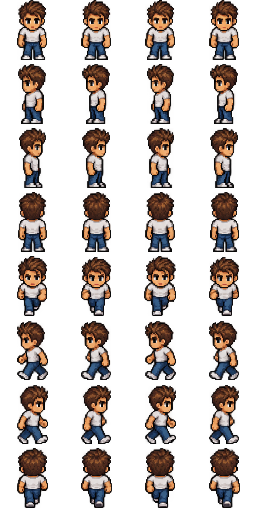
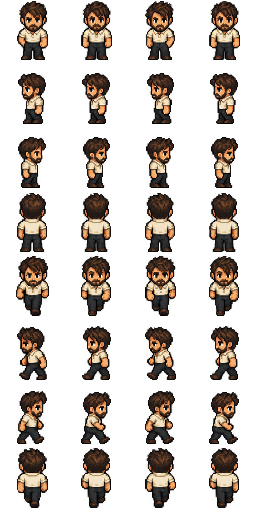
Sprite Workshop saves: Drew mirror-left fix, Panthers Player walk/hurt/portrait

diff --git a/v8/src/art.js b/v8/src/art.js
@@ -2,7 +2,7 @@
 // V8_ART.url(id) returns a cache-busted relative URL for an art id.
 ((root)=>{
  'use strict';
[2 lines of base64/hex data omitted]
  const entry=id=>{const a=data.assets[id];if(!a)throw new Error("Unknown art id: "+id);return a;};
  const url=id=>data.root+entry(id).file+'?v='+entry(id).hash.slice(0,10);
  const api=Object.freeze({url,entry,has:id=>Object.hasOwn(data.assets,id),ids:()=>Object.keys(data.assets),root:data.root});

diff --git a/v8/src/sprites-data.js b/v8/src/sprites-data.js
@@ -1,7 +1,7 @@
 // GENERATED by tools/sprites.cjs from v8/data/sprites.json - edit the JSON (or use the studio), then `npm run sprites:build`.
 ((root)=>{
  'use strict';
- const data={"version":1,"cell":64,"foot":{"x":32,"y":60},"walkRows":{"down":0,"left":1,"right":2,"up":3},"characters":{"jason":{"name":"Jason","walk":"character.jason.walk","portrait":"portrait.jason","speed":120,"runSpeed":205,"walkFPS":8,"runFPS":12},"connor":{"name":"Connor","walk":"character.connor.walk","portrait":"portrait.connor","speed":120,"runSpeed":205,"walkFPS":8,"runFPS":12},"coco":{"name":"Coco","walk":"character.coco.walk","portrait":"portrait.coco","speed":120,"runSpeed":205,"walkFPS":8,"runFPS":12,"emotions":{"art":"character.coco.emotions","frames":3,"fps":6,"rows":{"talk":0,"surprised":1}}},"peachy":{"name":"Peachy","walk":"character.peachy.walk","portrait":"portrait.peachy","speed":120,"runSpeed":205,"walkFPS":8,"runFPS":12},"stephanie":{"name":"Stephanie","walk":"character.stephanie.walk","portrait":"portrait.stephanie","speed":120,"runSpeed":205,"walkFPS":8,"runFPS":12},"mark":{"name":"Mark","walk":"character.mark.walk","portrait":"portrait.mark","speed":120,"runSpeed":205,"walkFPS":8,"runFPS":12},"adam":{"name":"Adam","walk":"character.adam.walk","portrait":"portrait.adam","speed":120,"runSpeed":205,"walkFPS":8,"runFPS":12},"kate":{"name":"Kate","walk":"character.kate.walk","portrait":"portrait.kate","speed":120,"runSpeed":205,"walkFPS":8,"runFPS":12},"brie":{"name":"Brie","walk":"character.brie.walk","portrait":"portrait.brie","speed":120,"runSpeed":205,"walkFPS":8,"runFPS":12},"vito":{"name":"Vito","walk":"character.vito.walk","portrait":"portrait.vito","speed":120,"runSpeed":205,"walkFPS":8,"runFPS":12},"jaime":{"name":"Jaime","walk":"character.jaime.walk","portrait":"portrait.jaime","speed":155,"runSpeed":245,"walkFPS":8,"runFPS":12,"walkRowOffset":4},"chris":{"name":"Chris","walk":"character.chris.walk","portrait":"portrait.chris","speed":120,"runSpeed":205,"walkFPS":8,"runFPS":12,"walkRowOffset":4},"jeff":{"name":"Jeff","walk":"character.jeff.walk","portrait":"portrait.jeff","speed":120,"runSpeed":205,"walkFPS":8,"runFPS":12,"walkRowOffset":4},"ari":{"name":"Ari","walk":"character.ari.walk","portrait":"portrait.ari","speed":120,"runSpeed":205,"walkFPS":8,"runFPS":12,"walkRowOffset":4},"gary":{"name":"Gary","walk":"character.gary.walk","portrait":"portrait.gary","speed":135,"runSpeed":230,"walkFPS":8,"runFPS":12,"walkRowOffset":4,"mirrorLeft":true},"bryce-young":{"name":"Bryce Young","walk":"character.bryce-young.walk","portrait":"portrait.bryce-young","speed":120,"runSpeed":205,"walkFPS":8,"runFPS":12,"walkRowOffset":4,"joined":true},"drew":{"name":"Drew","walk":"character.drew.walk","portrait":"portrait.drew","speed":120,"runSpeed":205,"walkFPS":8,"runFPS":12,"walkRowOffset":4,"joined":true},"kelce":{"name":"Kelce","walk":"character.kelce.walk","portrait":"portrait.kelce","speed":120,"runSpeed":205,"walkFPS":8,"runFPS":12,"walkRowOffset":4,"joined":true},"taylor":{"name":"Taylor","walk":"character.taylor.walk","portrait":"portrait.taylor","speed":120,"runSpeed":205,"walkFPS":8,"runFPS":12,"walkRowOffset":4,"joined":true},"alex":{"name":"Alex","walk":"character.alex.walk","portrait":"portrait.alex","speed":120,"runSpeed":205,"walkFPS":8,"runFPS":12,"walkRowOffset":4,"joined":true}},"poses":{"connor":{"talk":{"art":"character.connor.talk","frames":1,"fps":6},"surprised":{"art":"character.connor.surprised","frames":1,"fps":6}},"jason":{"talk":{"art":"character.jason.talk","frames":1,"fps":6},"surprised":{"art":"character.jason.surprised","frames":1,"fps":6}},"peachy":{"talk":{"art":"character.peachy.talk","frames":1,"fps":6},"surprised":{"art":"character.peachy.surprised","frames":1,"fps":6}},"mark":{"talk":{"art":"character.mark.talk","frames":1,"fps":6},"surprised":{"art":"character.mark.surprised","frames":1,"fps":6}},"stephanie":{"talk":{"art":"character.stephanie.talk","frames":1,"fps":6},"surprised":{"art":"character.stephanie.surprised","frames":1,"fps":6}},"vito":{"talk":{"art":"character.vito.talk","frames":1,"fps":6},"surprised":{"art":"character.vito.surprised","frames":1,"fps":6},"wrestle":{"art":"character.vito.wrestle","frameWidth":192,"frameHeight":128,"foot":{"x":64,"y":120},"frames":3,"fps":6},"throw":{"art":"character.vito.throw","frameWidth":192,"frameHeight":128,"foot":{"x":64,"y":120},"frames":6,"fps":6,"loop":false},"recover":{"art":"character.vito.recover","frameWidth":192,"frameHeight":128,"foot":{"x":64,"y":120},"frames":3,"fps":3,"loop":false}},"brie":{"talk":{"art":"character.brie.talk","frames":1,"fps":6},"yoga":{"art":"character.brie.yoga","frames":3,"fps":3},"stand":{"art":"character.brie.stand","frames":3,"fps":3,"loop":false}},"jeff":{"talk":{"art":"character.jeff.talk","frames":3,"fps":6},"surprised":{"art":"character.jeff.surprised","frames":3,"fps":6},"hurt":{"art":"character.jeff.hurt","frames":3,"fps":6,"loop":false},"win":{"art":"character.jeff.win","frames":3,"fps":6,"loop":false},"interact":{"art":"character.jeff.interact","frames":2,"fps":6,"loop":false}},"ari":{"talk":{"art":"character.ari.talk","frames":3,"fps":6},"surprised":{"art":"character.ari.surprised","frames":3,"fps":6},"hurt":{"art":"character.ari.hurt","frames":3,"fps":6,"loop":false},"interact":{"art":"character.ari.interact","frames":2,"fps":6,"loop":false},"kick":{"art":"character.ari.kick","frames":3,"fps":6,"loop":false},"win":{"art":"character.ari.win","frames":3,"fps":6,"loop":false}},"chris":{"talk":{"art":"character.chris.talk","frames":3,"fps":6},"surprised":{"art":"character.chris.surprised","frames":3,"fps":6},"hurt":{"art":"character.chris.hurt","frames":3,"fps":6,"loop":false},"win":{"art":"character.chris.win","frames":3,"fps":6,"loop":false},"interact":{"art":"character.chris.interact","frames":2,"fps":6,"loop":false}},"jaime":{"talk":{"art":"character.jaime.talk","frames":3,"fps":6},"surprised":{"art":"character.jaime.surprised","frames":3,"fps":6},"hurt":{"art":"character.jaime.hurt","frames":3,"fps":6,"loop":false},"win":{"art":"character.jaime.win","frames":3,"fps":6,"loop":false},"phone":{"art":"character.jaime.phone","frames":2,"fps":6},"skate":{"art":"character.jaime.skate","frames":3,"fps":8}},"gary":{"talk":{"art":"character.gary.talk","frames":3,"fps":6},"surprised":{"art":"character.gary.surprised","frames":3,"fps":6},"hurt":{"art":"character.gary.hurt","frames":3,"fps":6,"loop":false},"win":{"art":"character.gary.win","frameHeight":80,"foot":{"x":32,"y":76},"frames":3,"fps":6,"loop":false},"sit":{"art":"character.gary.sit","frames":1,"fps":6,"loop":false},"drink":{"art":"character.gary.drink","frames":1,"fps":6,"loop":false},"interact":{"art":"character.gary.interact","frames":2,"fps":6,"loop":false},"attack":{"art":"character.gary.attack","frameWidth":128,"frames":3,"fps":6,"loop":false},"special":{"art":"character.gary.special","frameWidth":128,"frameHeight":80,"foot":{"x":40,"y":72},"frames":3,"fps":6,"loop":false},"unique":{"art":"character.gary.unique","frames":3,"fps":6,"loop":false},"run":{"art":"character.gary.run","frames":3,"fps":8}},"bryce-young":{"surprised":{"art":"character.bryce-young.surprised","frames":3,"fps":6}},"drew":{"surprised":{"art":"character.drew.surprised","frames":3,"fps":6},"hurt":{"art":"character.drew.hurt","frames":3,"fps":6}},"alex":{"surprised":{"art":"character.alex.surprised","frames":3,"fps":6},"hurt":{"art":"character.alex.hurt","frames":1,"fps":6}}},"windowHead":{"art":"dinosaur.window-head","frameWidth":192,"frameHeight":192,"frames":3}};
+ const data={"version":1,"cell":64,"foot":{"x":32,"y":60},"walkRows":{"down":0,"left":1,"right":2,"up":3},"characters":{"jason":{"name":"Jason","walk":"character.jason.walk","portrait":"portrait.jason","speed":120,"runSpeed":205,"walkFPS":8,"runFPS":12},"connor":{"name":"Connor","walk":"character.connor.walk","portrait":"portrait.connor","speed":120,"runSpeed":205,"walkFPS":8,"runFPS":12},"coco":{"name":"Coco","walk":"character.coco.walk","portrait":"portrait.coco","speed":120,"runSpeed":205,"walkFPS":8,"runFPS":12,"emotions":{"art":"character.coco.emotions","frames":3,"fps":6,"rows":{"talk":0,"surprised":1}}},"peachy":{"name":"Peachy","walk":"character.peachy.walk","portrait":"portrait.peachy","speed":120,"runSpeed":205,"walkFPS":8,"runFPS":12},"stephanie":{"name":"Stephanie","walk":"character.stephanie.walk","portrait":"portrait.stephanie","speed":120,"runSpeed":205,"walkFPS":8,"runFPS":12},"mark":{"name":"Mark","walk":"character.mark.walk","portrait":"portrait.mark","speed":120,"runSpeed":205,"walkFPS":8,"runFPS":12},"adam":{"name":"Adam","walk":"character.adam.walk","portrait":"portrait.adam","speed":120,"runSpeed":205,"walkFPS":8,"runFPS":12},"kate":{"name":"Kate","walk":"character.kate.walk","portrait":"portrait.kate","speed":120,"runSpeed":205,"walkFPS":8,"runFPS":12},"brie":{"name":"Brie","walk":"character.brie.walk","portrait":"portrait.brie","speed":120,"runSpeed":205,"walkFPS":8,"runFPS":12},"vito":{"name":"Vito","walk":"character.vito.walk","portrait":"portrait.vito","speed":120,"runSpeed":205,"walkFPS":8,"runFPS":12},"jaime":{"name":"Jaime","walk":"character.jaime.walk","portrait":"portrait.jaime","speed":155,"runSpeed":245,"walkFPS":8,"runFPS":12,"walkRowOffset":4},"chris":{"name":"Chris","walk":"character.chris.walk","portrait":"portrait.chris","speed":120,"runSpeed":205,"walkFPS":8,"runFPS":12,"walkRowOffset":4},"jeff":{"name":"Jeff","walk":"character.jeff.walk","portrait":"portrait.jeff","speed":120,"runSpeed":205,"walkFPS":8,"runFPS":12,"walkRowOffset":4},"ari":{"name":"Ari","walk":"character.ari.walk","portrait":"portrait.ari","speed":120,"runSpeed":205,"walkFPS":8,"runFPS":12,"walkRowOffset":4},"gary":{"name":"Gary","walk":"character.gary.walk","portrait":"portrait.gary","speed":135,"runSpeed":230,"walkFPS":8,"runFPS":12,"walkRowOffset":4,"mirrorLeft":true},"bryce-young":{"name":"Bryce Young","walk":"character.bryce-young.walk","portrait":"portrait.bryce-young","speed":120,"runSpeed":205,"walkFPS":8,"runFPS":12,"walkRowOffset":4,"joined":true},"drew":{"name":"Drew","walk":"character.drew.walk","portrait":"portrait.drew","speed":120,"runSpeed":205,"walkFPS":8,"runFPS":12,"walkRowOffset":4,"joined":true,"mirrorLeft":true},"kelce":{"name":"Kelce","walk":"character.kelce.walk","portrait":"portrait.kelce","speed":120,"runSpeed":205,"walkFPS":8,"runFPS":12,"walkRowOffset":4,"joined":true},"taylor":{"name":"Taylor","walk":"character.taylor.walk","portrait":"portrait.taylor","speed":120,"runSpeed":205,"walkFPS":8,"runFPS":12,"walkRowOffset":4,"joined":true},"alex":{"name":"Alex","walk":"character.alex.walk","portrait":"portrait.alex","speed":120,"runSpeed":205,"walkFPS":8,"runFPS":12,"walkRowOffset":4,"joined":true},"panthersplayer":{"name":"Panthersplayer","walk":"character.panthersplayer.walk","portrait":"portrait.panthersplayer","speed":120,"runSpeed":205,"walkFPS":8,"runFPS":12,"walkRowOffset":4,"joined":true}},"poses":{"connor":{"talk":{"art":"character.connor.talk","frames":1,"fps":6},"surprised":{"art":"character.connor.surprised","frames":1,"fps":6}},"jason":{"talk":{"art":"character.jason.talk","frames":1,"fps":6},"surprised":{"art":"character.jason.surprised","frames":1,"fps":6}},"peachy":{"talk":{"art":"character.peachy.talk","frames":1,"fps":6},"surprised":{"art":"character.peachy.surprised","frames":1,"fps":6}},"mark":{"talk":{"art":"character.mark.talk","frames":1,"fps":6},"surprised":{"art":"character.mark.surprised","frames":1,"fps":6}},"stephanie":{"talk":{"art":"character.stephanie.talk","frames":1,"fps":6},"surprised":{"art":"character.stephanie.surprised","frames":1,"fps":6}},"vito":{"talk":{"art":"character.vito.talk","frames":1,"fps":6},"surprised":{"art":"character.vito.surprised","frames":1,"fps":6},"wrestle":{"art":"character.vito.wrestle","frameWidth":192,"frameHeight":128,"foot":{"x":64,"y":120},"frames":3,"fps":6},"throw":{"art":"character.vito.throw","frameWidth":192,"frameHeight":128,"foot":{"x":64,"y":120},"frames":6,"fps":6,"loop":false},"recover":{"art":"character.vito.recover","frameWidth":192,"frameHeight":128,"foot":{"x":64,"y":120},"frames":3,"fps":3,"loop":false}},"brie":{"talk":{"art":"character.brie.talk","frames":1,"fps":6},"yoga":{"art":"character.brie.yoga","frames":3,"fps":3},"stand":{"art":"character.brie.stand","frames":3,"fps":3,"loop":false}},"jeff":{"talk":{"art":"character.jeff.talk","frames":3,"fps":6},"surprised":{"art":"character.jeff.surprised","frames":3,"fps":6},"hurt":{"art":"character.jeff.hurt","frames":3,"fps":6,"loop":false},"win":{"art":"character.jeff.win","frames":3,"fps":6,"loop":false},"interact":{"art":"character.jeff.interact","frames":2,"fps":6,"loop":false}},"ari":{"talk":{"art":"character.ari.talk","frames":3,"fps":6},"surprised":{"art":"character.ari.surprised","frames":3,"fps":6},"hurt":{"art":"character.ari.hurt","frames":3,"fps":6,"loop":false},"interact":{"art":"character.ari.interact","frames":2,"fps":6,"loop":false},"kick":{"art":"character.ari.kick","frames":3,"fps":6,"loop":false},"win":{"art":"character.ari.win","frames":3,"fps":6,"loop":false}},"chris":{"talk":{"art":"character.chris.talk","frames":3,"fps":6},"surprised":{"art":"character.chris.surprised","frames":3,"fps":6},"hurt":{"art":"character.chris.hurt","frames":3,"fps":6,"loop":false},"win":{"art":"character.chris.win","frames":3,"fps":6,"loop":false},"interact":{"art":"character.chris.interact","frames":2,"fps":6,"loop":false}},"jaime":{"talk":{"art":"character.jaime.talk","frames":3,"fps":6},"surprised":{"art":"character.jaime.surprised","frames":3,"fps":6},"hurt":{"art":"character.jaime.hurt","frames":3,"fps":6,"loop":false},"win":{"art":"character.jaime.win","frames":3,"fps":6,"loop":false},"phone":{"art":"character.jaime.phone","frames":2,"fps":6},"skate":{"art":"character.jaime.skate","frames":3,"fps":8}},"gary":{"talk":{"art":"character.gary.talk","frames":3,"fps":6},"surprised":{"art":"character.gary.surprised","frames":3,"fps":6},"hurt":{"art":"character.gary.hurt","frames":3,"fps":6,"loop":false},"win":{"art":"character.gary.win","frameHeight":80,"foot":{"x":32,"y":76},"frames":3,"fps":6,"loop":false},"sit":{"art":"character.gary.sit","frames":1,"fps":6,"loop":false},"drink":{"art":"character.gary.drink","frames":1,"fps":6,"loop":false},"interact":{"art":"character.gary.interact","frames":2,"fps":6,"loop":false},"attack":{"art":"character.gary.attack","frameWidth":128,"frames":3,"fps":6,"loop":false},"special":{"art":"character.gary.special","frameWidth":128,"frameHeight":80,"foot":{"x":40,"y":72},"frames":3,"fps":6,"loop":false},"unique":{"art":"character.gary.unique","frames":3,"fps":6,"loop":false},"run":{"art":"character.gary.run","frames":3,"fps":8}},"bryce-young":{"surprised":{"art":"character.bryce-young.surprised","frames":3,"fps":6}},"drew":{"surprised":{"art":"character.drew.surprised","frames":3,"fps":6},"hurt":{"art":"character.drew.hurt","frames":3,"fps":6,"loop":false}},"alex":{"surprised":{"art":"character.alex.surprised","frames":3,"fps":6},"hurt":{"art":"character.alex.hurt","frames":1,"fps":6,"loop":false}},"panthersplayer":{"hurt":{"art":"character.panthersplayer.hurt","frames":1,"fps":6,"loop":false}}},"windowHead":{"art":"dinosaur.window-head","frameWidth":192,"frameHeight":192,"frames":3}};
  root.V8_SPRITES_DATA=Object.freeze(data);if(root!==globalThis)globalThis.V8_SPRITES_DATA=data;
  if(typeof module!=='undefined'&&module.exports)module.exports=data;
 })(typeof window==='undefined'?globalThis:window);
